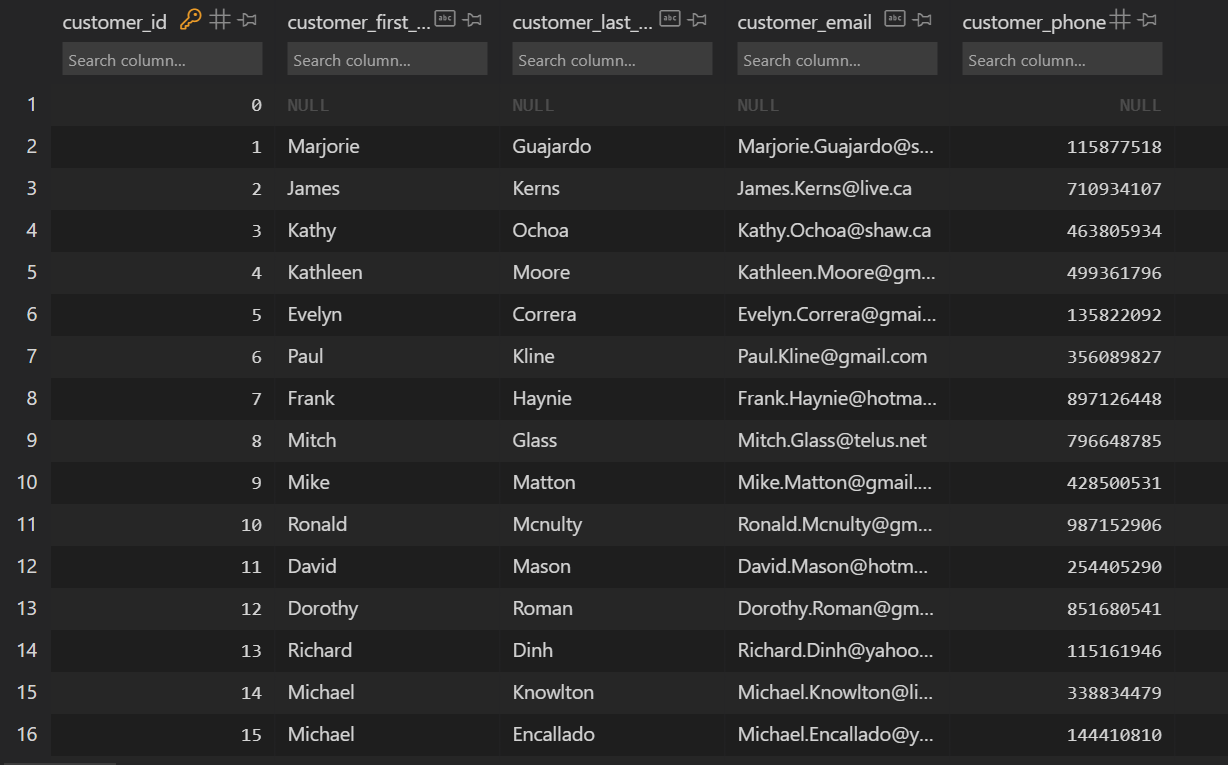
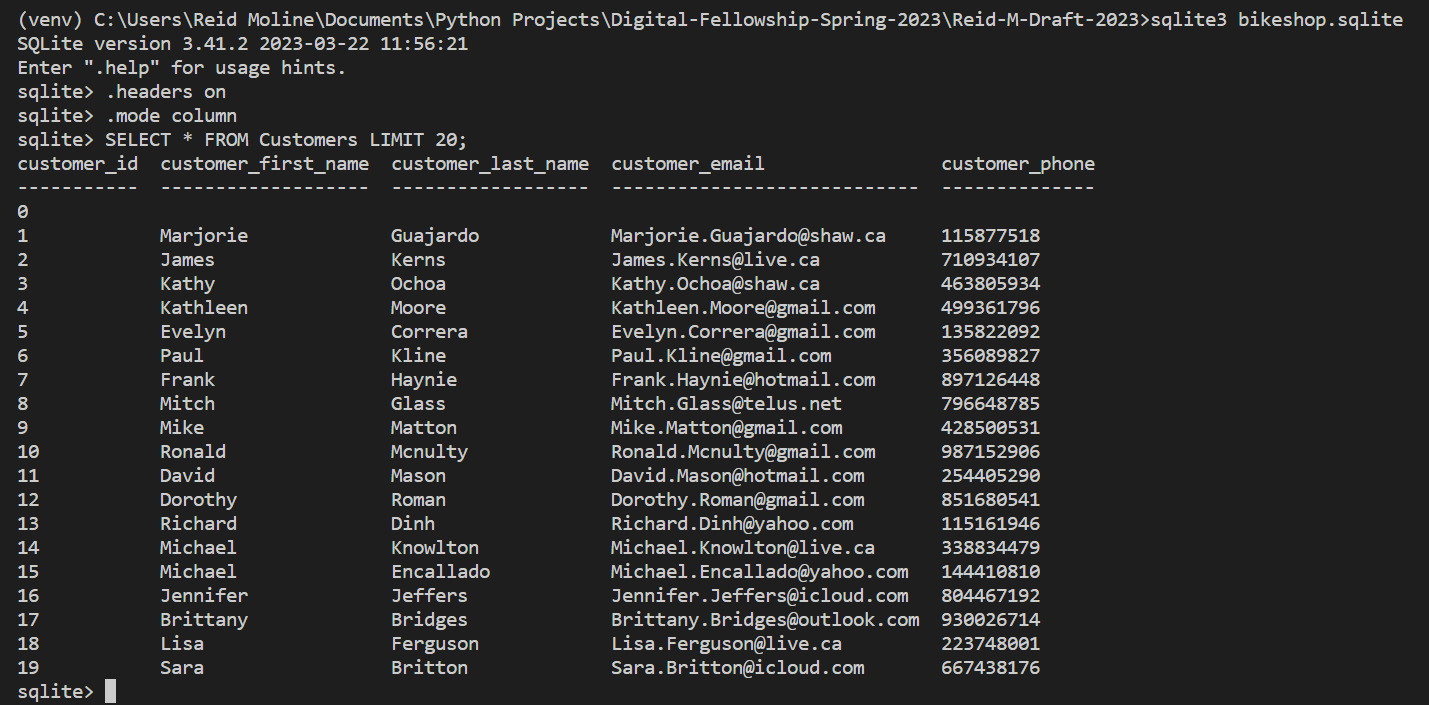
Changed the table screenshots to be what would show up in the sqlite3 terminal when queried rather then just seen using an extension

diff --git a/README.md b/README.md
@@ -53,8 +53,6 @@ With this simple one table database I encourage you to practice getting comforta
 
 With this intro into SQL using only a single table database I couldn't help but think, "Why not just use a CSV? What is the point of SQL?". To answer this question lets move forward into a motivating example relavent to a real world system.
 
-NOTE: I found it helpful to install the VSCode extension SQLite Viewer by Florian Klampfer to be able to click on and view the contents of .sqlite files.
-
 ## Motivating Example
 
 For this motivating example, I looked to create a scenario around a hobby of mine; bikes, and more specifically around the backend behind the business logic of a bike shop. In this I not only look to look deeper into SQL but also to "make the game worth playing" by looking into an actual real world scenario. Lets say you are the store manager of the Calgary Bike Shop and need a system to process transactions and record transactions with customers and track sales metrics. If we were to generate a mock of what this table would look like using the code in motivating-example-large-table-generator.py, it would look something like the following:
@@ -63,9 +61,11 @@ For this motivating example, I looked to create a scenario around a hobby of min
 
 With this very over simplified table of one item transactions, a flaw begins to arrise by changing the constant NUM_SALES to a larger number to mimic a busy sales day. In doing this, a simple 9 column table becomes super long and as such becomes more difficult to sift through for data. Furthermore, this table only considers simple one item transactions of a business; not taking into account transactions with more than one item. On top of that, there is way more information we can include about products, employees, and customers that if added would make this table huge! If we were to continue to add all of this to one table and format it as a CSV, it would be a horrendously large and jumbled up array of data. This is where a relational database structure can help.
 
+# Creating a relational database model using SQLite
+
 Focussing only on the retail transactions and stock side of the business, we can begin to seperate the portions of a transaction into four seperate categories; the customer, the salesperson, the transacitons, and the products. Although all four of these things are seperate entities, they all relate to each other in one way or another. In formatting four seperate tables for these items it can allow for us to organize a better system for storing transaction records.
 
-First off we can start with creating a table for customers. Given people can have the same full first and last name it would make sense to create a numeric customer ID to create different profiles. With this we can include basic information that can help the business, such as their first name, last name, email, and phone number. Using the code in customers.py we can create a mock up table of customer profiles like the one below:
+First off we can start with creating a table for the people who make having a business possible; the customers. Given people can have the same full first and last name it would make sense to create a numeric customer ID to create different profiles. With this we can include basic information that can help keep record of business, such as their first name, last name, email, and phone number. Using the code in customers.py we can create a mock up table of customer profiles. Accessing this table via the SQLite3 terminal we can see the following output:
 
 ![Generated Customer Table](customers-table.png)
 
@@ -85,12 +85,12 @@ Or you can access a list of all row tuples where this is the case using these li
     all_rows_with_no_email = cursor.fetchall()
 
 
-Moving on from this to the creation of an Employee table seen in the file employees.py. For a basic record of all employees I have included an employee id, first name, last name, work email, and phone number. The table generated using the code in employees.py is of the following form:
+Moving on from this to the creation of an Employee table seen in the file employees.py. For a basic record of all employees I have included an employee id, first name, last name, work email, and phone number. An employer can store other employee data in this table as well such as payment information, hourly wage, etc., but for simplicity lets keep it small. The table generated using the code in employees.py shown via a query in the SQLite3 terminal is of the following form:
 
 ![Generated Employees Table](employees-table.png)
 
-Now we can generate a table for the products in store. Keeping it somewhat small, given all products are being generated by myself in products.py, For the products, I made it so that each product will have it's own 12 digit universal product code (UPC), a description of the product, the quantity of the product on hand, the vendor which the product is ordered from, the manufactuer's suggested retail price (MSRP), the business cost of the unit. With this all considered, using the code in the file products.py, the generated table is of the following form:
+Now we can generate a table for the products in store. Keeping it somewhat small compared to the amount of products a bike shop would carry, I've used my knowledge of bike brands, component specification levels and sizes to create a table full of different bikes as well as accessories some would also see in a bike shop. In the file products.py, I've used this knowledge along with researched msrp values from major bike brands websites and the assumed 55% cost of these items, to generate the table seen below. For the products, I made it so that each product will have it's own 12 digit universal product code (UPC), a description of the product, the quantity of the product on hand, the vendor which the product is ordered from, the manufactuer's suggested retail price (MSRP), the business cost of the unit. With this all considered, using the code in the file products.py, the generated table is of the following form:
 
 ![Generated Products Table](products-table.png)
 
-NEXT: Handling transactions
+NEXT: Handling transactions and bike serilization
